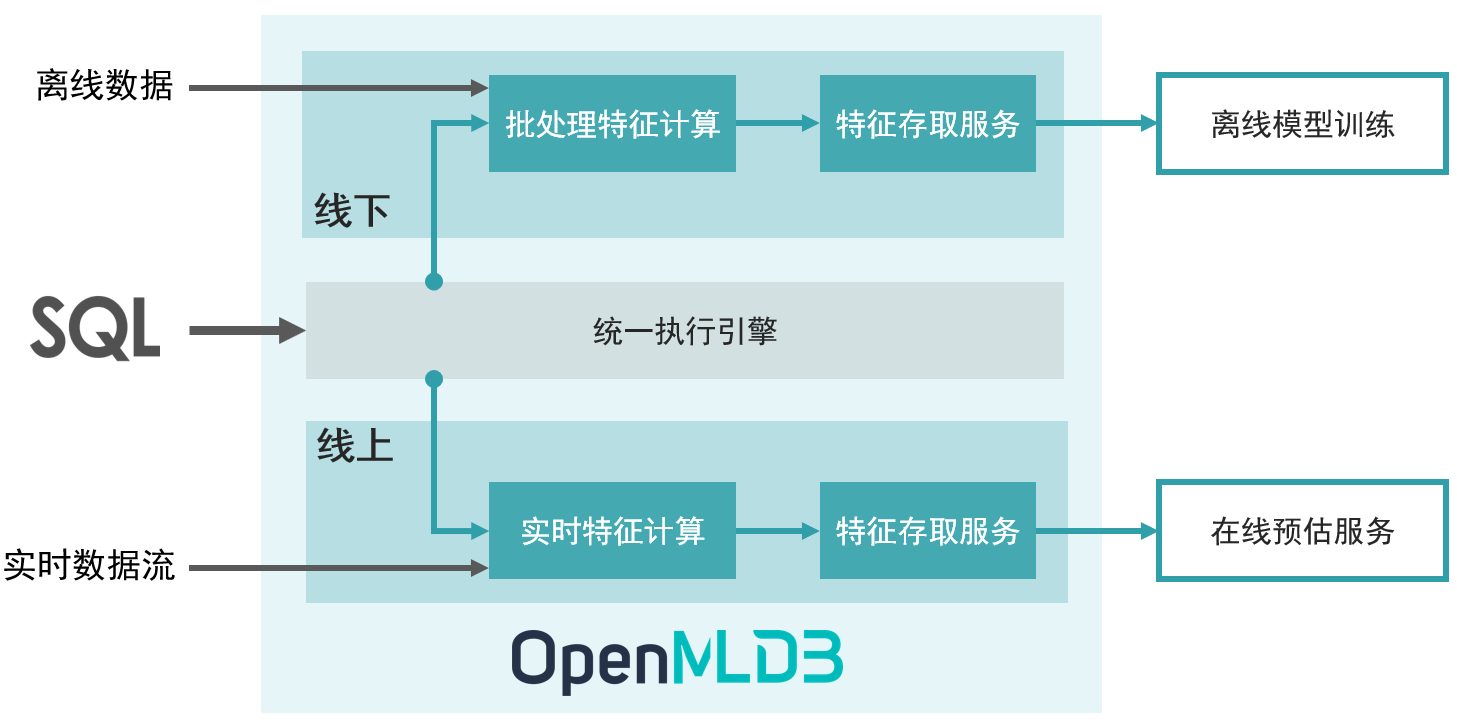
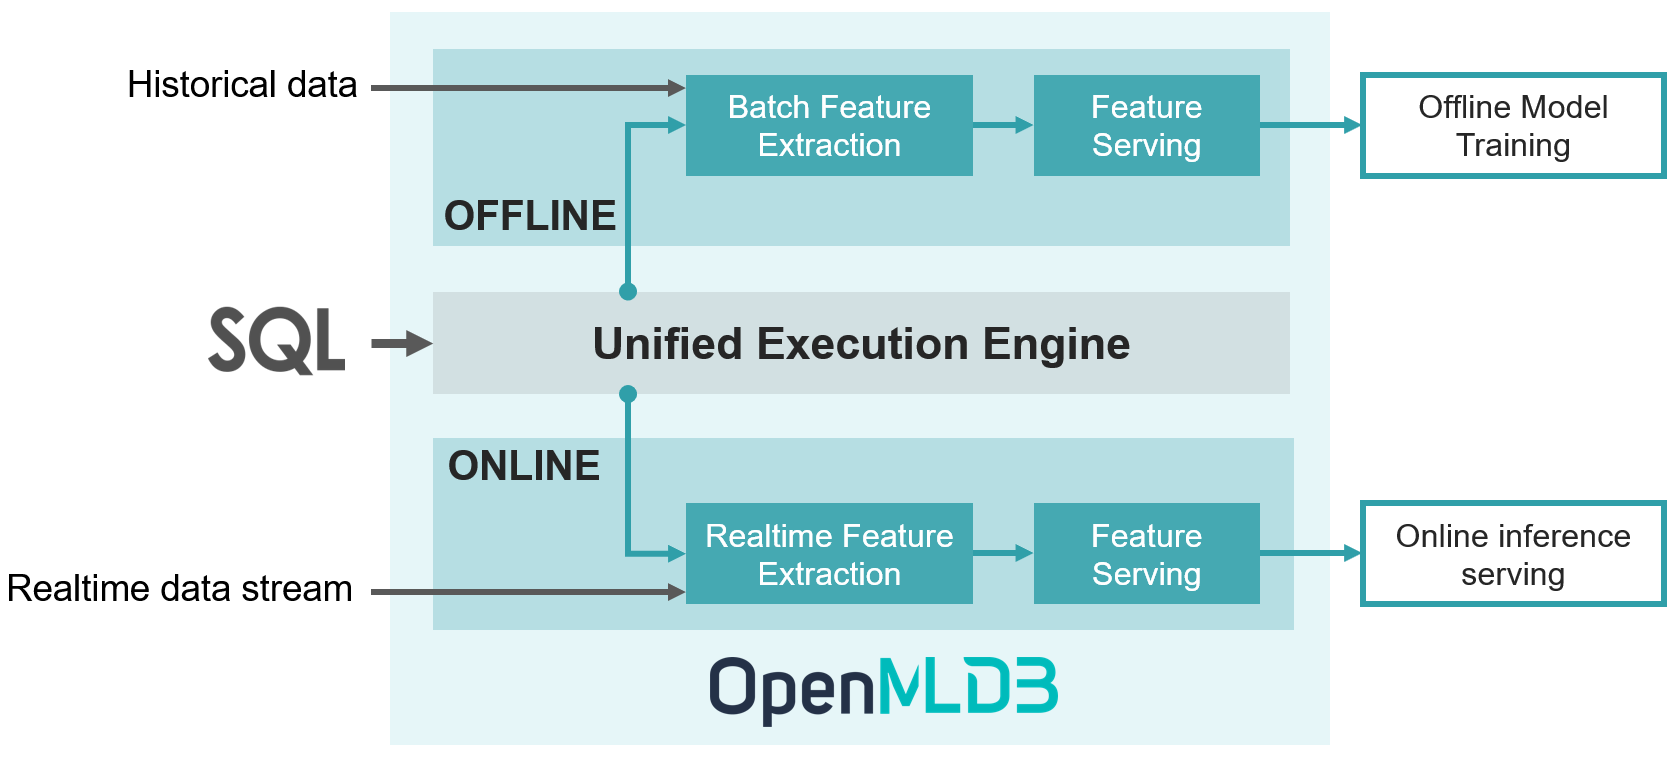
docs: figure workflow updated

Changed region(s): [[0.0, 0.0, 1.0, 1.0], [0.3397, 0.8497, 0.6486, 0.971], [0.3397, 0.4248, 0.6795, 0.4855]]

diff --git a/README.md b/README.md
@@ -20,8 +20,9 @@
 
 OpenMLDB is an open-source database particularly designed to efficiently provide consistent data for machine learning.  A database for machine learning consists of two major tasks: feature extraction and feature access, which are served as data provisioning for offline training and online inference. Without OpenMLDB, there are two separate systems for online and offline data provisioning, which cost significant effort to verify the online-offline consistency. On the contrary, OpenMLDB supports the unified SQL programming and its execution engine for both online and offline data provisioning. As a result, the online-offline consistency is inherently guaranteed. Moreover, the system is carefully designed and optimized to ensure the efficiency. By taking advantages of OpenMLDB, database engineers are now able to write SQL scripts only to efficiently provide consistent data to machine learning, and an offline model can be immediately deployed for online serving with little cost involved.
 <p align="center">
- <img src="images/workflow.png" alt="image-20211103103052252" width=700 />
+ <img src="images/workflow.png" alt="image-20211103103052252" width=800 />
  </p>
+
 The above figure illustrates the OpenMLDB workflow. SQL engineers first write SQL scripts for offline feature extraction, which provides data for offline model training. When the model quality is satisfied, the online feature extraction and access can be enabled immediately for online serving without additional efforts involved. Thanks to the unified SQL programming and execution engine, the online-offline consistency verification is eliminated, which is inherently guaranteed by OpenMLDB. Furthermore, certain optimization techniques (e.g., data skew optimization and in-memory indexing for offline and online feature extraction, respectively) are adopted to ensure that the performance requirement can be met for both offline training and online inference. In summary, OpenMLDB enables SQL as the only programming interface for consistent and efficient data provisioning for both offline model training and online inference serving.
 
 ## 2. Highlight Features
